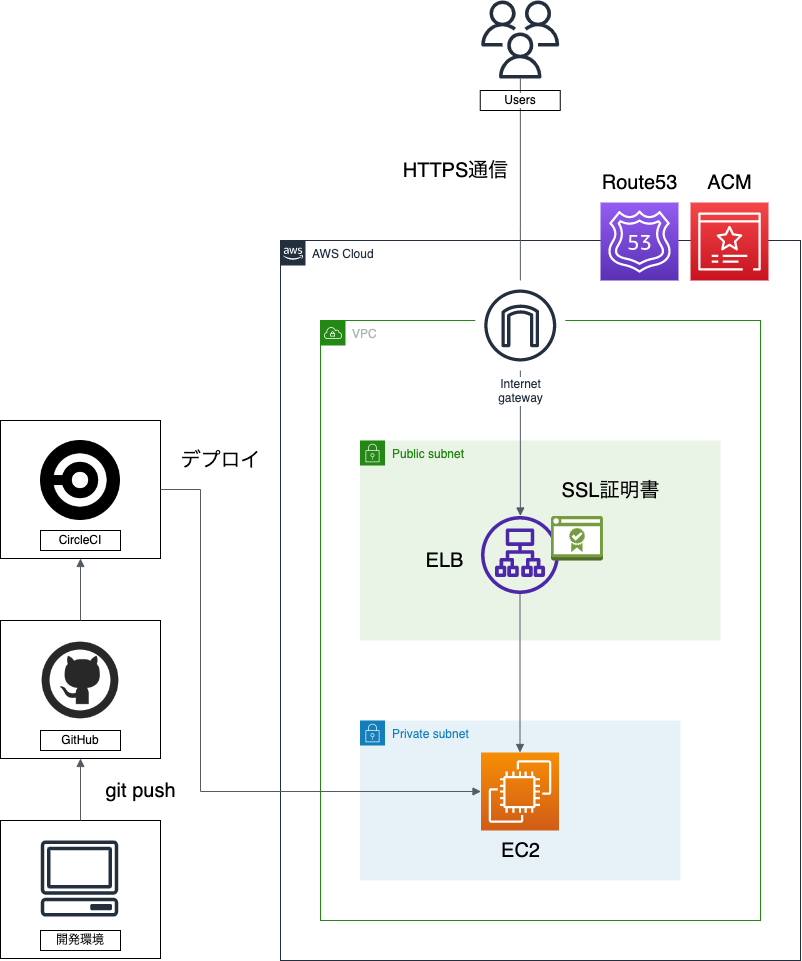
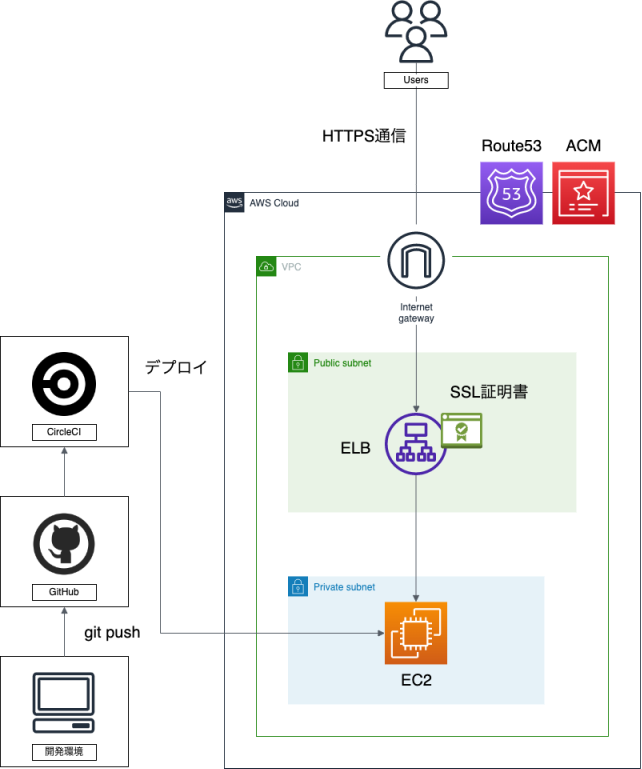
README.mdに画像を挿入

diff --git a/README.md b/README.md
@@ -1,5 +1,9 @@
 # TweetApp
 フレームワークを使用せず、プレーンなPHPで作成したTwitter風Webアプリケーションです。
+<img src="https://user-images.githubusercontent.com/115539141/215316232-4a1417bf-d888-47eb-94ea-c7d920dbda81.png" alt="home">
+
+# URL
+- 応募書類をご参照ください。
 
 # 使用技術
 PHP/7.2.34
@@ -19,12 +23,25 @@ AWS(IAM, VPC, EC2, Route53, Certificate Manager)
 CircleCI
 
 # 機能一覧
-- サインアップ
+- サインアップ（新規登録）
+<img src="https://user-images.githubusercontent.com/115539141/215316215-e6bcec2b-985f-46ba-9f5f-68101d6411ec.png" width="600px" alt="signup">
+
 - ログイン、ログアウト
+<img src="https://user-images.githubusercontent.com/115539141/215316228-40c84067-d809-481c-8d13-23e3df64efaf.png" width="600px" alt="login">
+
 - ツイート（投稿、削除）
+<img src="https://user-images.githubusercontent.com/115539141/215320412-855dd23f-5794-4030-815d-d84f56d53ebc.gif" width="600px" alt="tweet-post">
+<img src="https://user-images.githubusercontent.com/115539141/215320415-a12e71f4-726d-47cf-aa0f-35e21e94981f.gif" width="600px" alt="tweet-delete">
+
 - いいね
+<img src="https://user-images.githubusercontent.com/115539141/215320177-0fda3b64-0cf5-45ed-93be-73b3d20a37d3.gif" width="600px" alt="like">
+
+- 各ユーザーの投稿、いいねしたツイートの一覧
+<img src="https://user-images.githubusercontent.com/115539141/215319909-ba44d2dd-943a-4fbe-93db-d49753aea650.gif" width="600px" alt="">
+
 - おすすめユーザー表示
 - アカウント設定編集
+
 
 # 工夫した点
 - VSCodeでLintツール（PHP Intelephense、CSS Formatter）を用い、コードを綺麗に保つよう心掛けた。
@@ -38,7 +55,7 @@ CircleCI
     - Validationクラスに上記チェックの関数をまとめ、各種入力項目のクラスに継承させることでコードの保守性に配慮
 
 # インフラ構成
-![infrastructure](https://tweetapp.harukoz.com/assets/infrastructure.png)
+<img src="https://tweetapp.harukoz.com/assets/infrastructure.png" width="600px" alt="infrastructure">
 
 # 開発環境
 Mac mini(M1, 2020)
